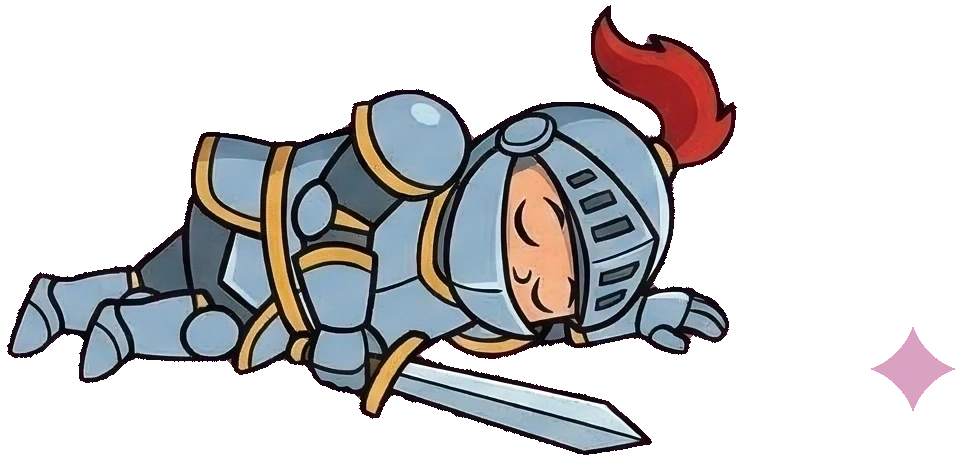
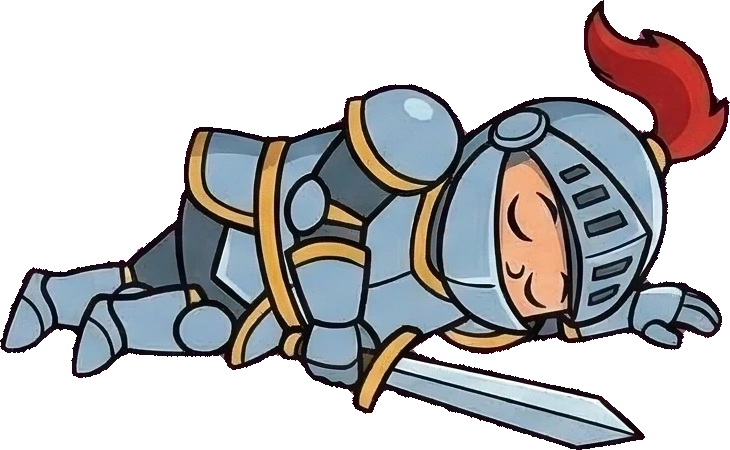
feat: dragon HP bar overlay, scale tweaks, splash at impact point, crop knight-dead watermark

diff --git a/src/screens/BattleScreen.jsx b/src/screens/BattleScreen.jsx
@@ -800,8 +800,20 @@ export function BattleScreen({ world, worldIndex, battleIndex, onBattleEnd, onQu
                     ? { opacity: { duration: 0.35, ease: 'easeOut' } }
                     : { duration: 0.45, ease: 'easeOut' }
                   }
+                  style={{ position: 'relative' }}
                 >
                   <EnemyCharacter phase={phase} enemy={world.enemy} hitKey={enemyHitKey} raging={raging} />
+                  {/* Dragon HP bar overlaid on sprite */}
+                  {isBoss && (
+                    <motion.div
+                      initial={{ opacity: 0 }}
+                      animate={introPlaying ? { opacity: 0 } : { opacity: 1 }}
+                      transition={{ duration: 0.35, delay: 0.1 }}
+                      style={{ position: 'absolute', top: 6, left: '50%', transform: 'translateX(-50%)', zIndex: 10, pointerEvents: 'none' }}
+                    >
+                      <HPBar current={enemyHP} max={world.enemy.maxHp ?? world.enemy.hp} color="red" shieldState={shieldState} shieldFlashKey={shieldFlashKey} shieldFallKey={shieldFallKey} shieldFallPip={shieldFallPip} />
+                    </motion.div>
+                  )}
                 </motion.div>
                 {/* Shadow fades in as enemy lands */}
                 <motion.div
@@ -814,16 +826,18 @@ export function BattleScreen({ world, worldIndex, battleIndex, onBattleEnd, onQu
               </div>
             </div>
 
-            {/* Enemy HP bar */}
-            <motion.div
-              initial={{ y: -60, opacity: 0 }}
-              animate={introPlaying ? {} : { y: 0, opacity: 1 }}
-              transition={{ duration: 0.35, delay: 0.1 }}
-              className="mb-6"
-              style={{ display: 'flex', flexDirection: 'column', alignItems: 'center', gap: 6 }}
-            >
-              <HPBar current={enemyHP} max={world.enemy.maxHp ?? world.enemy.hp} color="red" shieldState={shieldState} shieldFlashKey={shieldFlashKey} shieldFallKey={shieldFallKey} shieldFallPip={shieldFallPip} />
-            </motion.div>
+            {/* Enemy HP bar (hidden for dragon — rendered over sprite instead) */}
+            {!isBoss && (
+              <motion.div
+                initial={{ y: -60, opacity: 0 }}
+                animate={introPlaying ? {} : { y: 0, opacity: 1 }}
+                transition={{ duration: 0.35, delay: 0.1 }}
+                className="mb-6"
+                style={{ display: 'flex', flexDirection: 'column', alignItems: 'center', gap: 6 }}
+              >
+                <HPBar current={enemyHP} max={world.enemy.maxHp ?? world.enemy.hp} color="red" shieldState={shieldState} shieldFlashKey={shieldFlashKey} shieldFallKey={shieldFallKey} shieldFallPip={shieldFallPip} />
+              </motion.div>
+            )}
           </div>
         </div>
 

diff --git a/src/components/EnemyCharacter.jsx b/src/components/EnemyCharacter.jsx
@@ -21,9 +21,9 @@ function HitSplash({ color }) {
   return (
     <motion.div
       className="absolute pointer-events-none"
-      style={{ left: '50%', bottom: 0, transform: 'translate(-50%, 50%)', zIndex: 20, willChange: 'transform, opacity' }}
-      initial={{ scale: 0.05, opacity: 1 }}
-      animate={{ scale: [0.05, 1.4, 1.7], opacity: [1, 1, 0] }}
+      style={{ left: '30%', top: '30%', transform: 'translate(-50%, -50%)', zIndex: 20, willChange: 'transform, opacity' }}
+      initial={{ scale: 0.03, opacity: 1 }}
+      animate={{ scale: [0.03, 0.84, 1.02], opacity: [1, 1, 0] }}
       transition={{ duration: 0.5, times: [0, 0.28, 1], ease: 'easeOut' }}
     >
       <svg width="90" height="90" viewBox="-45 -45 90 90" fill="none">
@@ -685,7 +685,7 @@ export function EnemyCharacter({ phase, enemy, hitKey, raging = false }) {
               <AnimatePresence>
                 {splashKey !== null && <HitSplash key={splashKey} color={rasterSprites.splashColor} />}
               </AnimatePresence>
-              <div style={enemy.id === 'dragon' ? { transform: 'scale(2)', transformOrigin: 'center bottom', display: 'inline-block' } : undefined}>
+              <div style={enemy.id === 'dragon' ? { transform: 'scale(1.7)', transformOrigin: 'center bottom', display: 'inline-block' } : undefined}>
                 <img src={rasterSprites[sprite]} style={{ height: 'min(150px, 33vw)', width: 'auto', maxWidth: 'none', display: 'block', flexShrink: 0 }} alt="" />
               </div>
             </div>

diff --git a/src/components/KnightCharacter.jsx b/src/components/KnightCharacter.jsx
@@ -108,9 +108,9 @@ function HitSplash({ color }) {
   return (
     <motion.div
       className="absolute pointer-events-none"
-      style={{ left: '50%', bottom: 0, transform: 'translate(-50%, 50%)', zIndex: 20, willChange: 'transform, opacity' }}
-      initial={{ scale: 0.05, opacity: 1 }}
-      animate={{ scale: [0.05, 1.4, 1.7], opacity: [1, 1, 0] }}
+      style={{ left: '65%', top: '30%', transform: 'translate(-50%, -50%)', zIndex: 20, willChange: 'transform, opacity' }}
+      initial={{ scale: 0.03, opacity: 1 }}
+      animate={{ scale: [0.03, 0.84, 1.02], opacity: [1, 1, 0] }}
       transition={{ duration: 0.5, times: [0, 0.28, 1], ease: 'easeOut' }}
     >
       <svg width="90" height="90" viewBox="-45 -45 90 90" fill="none">

diff --git a/src/components/KingdomScenery.jsx b/src/components/KingdomScenery.jsx
@@ -70,7 +70,7 @@ export function StrollingKnight() {
         opacity: visible ? 1 : 0,
       }}>
         <div style={{
-          transform: `scale(0.5) scaleX(${facingRight ? 1 : -1})`,
+          transform: `scale(0.3) scaleX(${facingRight ? 1 : -1})`,
           transformOrigin: 'center bottom',
           display: 'inline-block',
           filter: 'drop-shadow(0 4px 12px rgba(0,0,0,0.5))',
